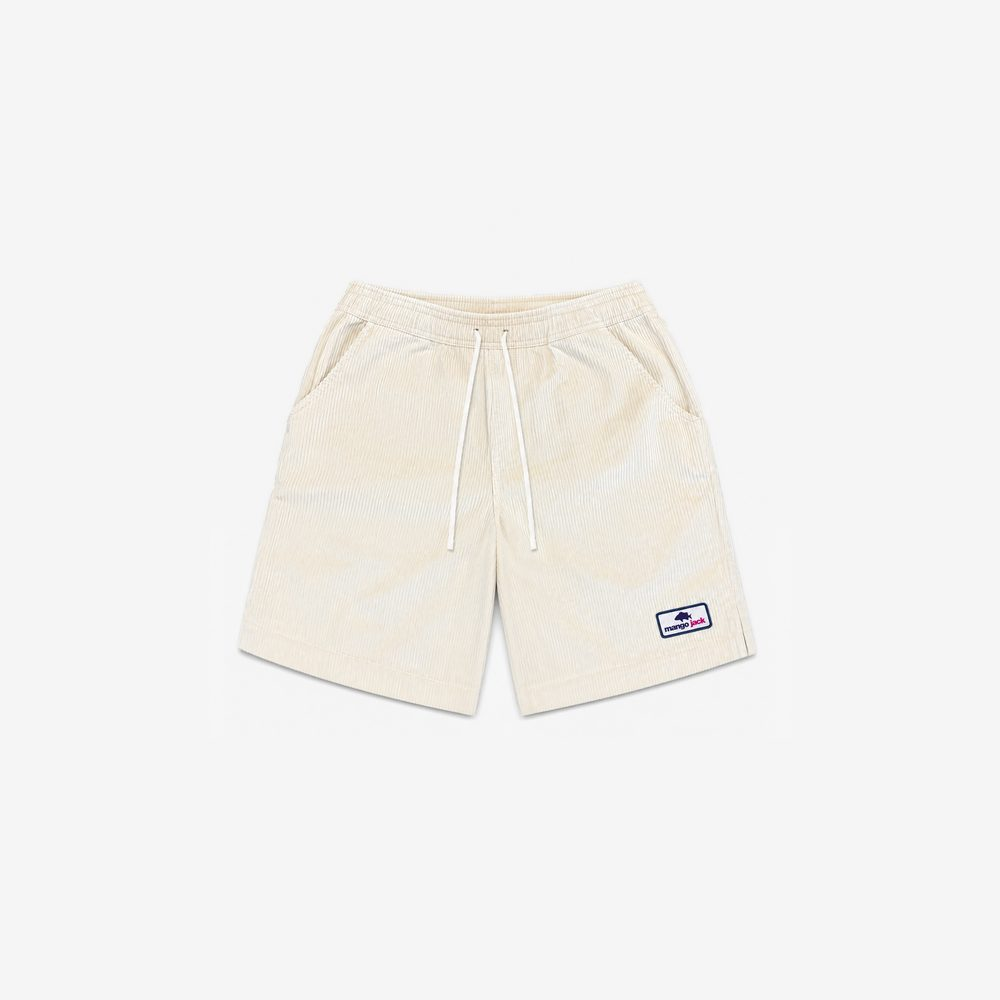
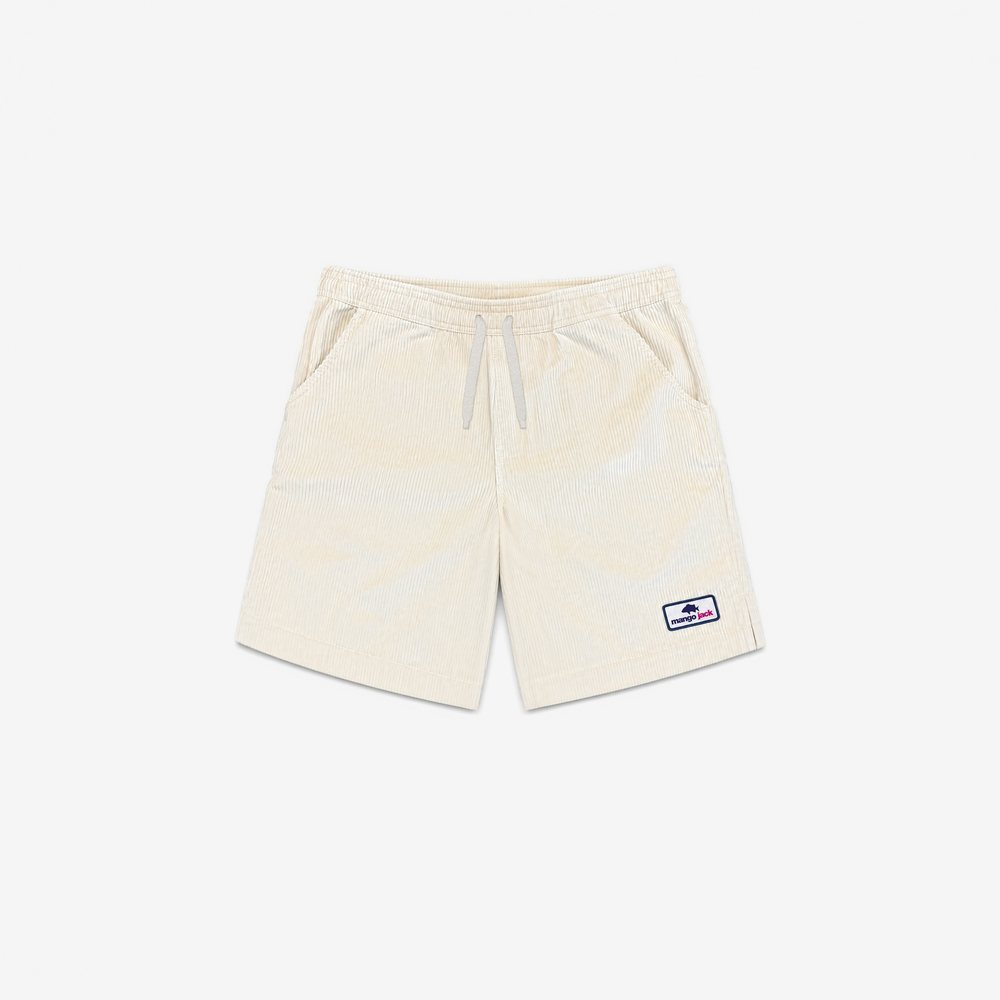
Update cord shorts and Mangrove Jack tee shots, remove ladies cord shorts
- Replace Broadwater Cord Short (beige, navy, salmon) front and back with the
  revised flatlays (longer leg, untied drawstring)
- Add the Mangrove Jack tee back shot (back was showing the front) and refresh the front
- Remove the three Ladies Broadwater Cord Short products and their images

Claude-Session: https://claude.ai/code/session_01Ryq84y8bG3T1CNt5CBMe1x

diff --git a/assets/site.js b/assets/site.js
@@ -66,7 +66,7 @@
         {
           "name": "White",
           "front": "assets/products/mangrove-jack-tee-white-front.jpg",
-          "back": "assets/products/mangrove-jack-tee-white-front.jpg"
+          "back": "assets/products/mangrove-jack-tee-white-back.jpg"
         }
       ],
       "fabric": "Reg Fit Tee, 100% cotton 195gsm"
@@ -165,111 +165,6 @@
       "fit": "Men's"
     },
     {
-      "id": "ladies-broadwater-cord-short-beige",
-      "name": "Ladies Broadwater Cord Short",
-      "cat": "shorts",
-      "fit": "Ladies",
-      "colours": [
-        {
-          "name": "Beige",
-          "front": "assets/products/ladies-broadwater-cord-short-beige-front.jpg",
-          "back": "assets/products/ladies-broadwater-cord-short-beige-back.jpg"
-        }
-      ],
-      "sizes": [
-        "6",
-        "8",
-        "10",
-        "12",
-        "14",
-        "16"
-      ],
-      "price": 79.99,
-      "stock": {
-        "Beige": {
-          "6": false,
-          "8": true,
-          "10": true,
-          "12": true,
-          "14": true,
-          "16": true
-        }
-      },
-      "group": "ladies-broadwater-cord-short",
-      "desc": "Our Broadwater Cord short is the ultimate in coastal comfort and effortless style. It blends undeniable class with a relaxed beach vibe.",
-      "fabric": "Corduroy Shorts, 100% cotton 340-350gsm"
-    },
-    {
-      "id": "ladies-broadwater-cord-short-navy",
-      "name": "Ladies Broadwater Cord Short",
-      "cat": "shorts",
-      "fit": "Ladies",
-      "colours": [
-        {
-          "name": "Navy",
-          "front": "assets/products/ladies-broadwater-cord-short-navy-front.jpg",
-          "back": "assets/products/ladies-broadwater-cord-short-navy-back.jpg"
-        }
-      ],
-      "sizes": [
-        "6",
-        "8",
-        "10",
-        "12",
-        "14",
-        "16"
-      ],
-      "price": 79.99,
-      "stock": {
-        "Navy": {
-          "6": false,
-          "8": true,
-          "10": false,
-          "12": true,
-          "14": true,
-          "16": false
-        }
-      },
-      "group": "ladies-broadwater-cord-short",
-      "desc": "Our Broadwater Cord short is the ultimate in coastal comfort and effortless style. It blends undeniable class with a relaxed beach vibe.",
-      "fabric": "Corduroy Shorts, 100% cotton 340-350gsm"
-    },
-    {
-      "id": "ladies-broadwater-cord-short-salmon",
-      "name": "Ladies Broadwater Cord Short",
-      "cat": "shorts",
-      "fit": "Ladies",
-      "colours": [
-        {
-          "name": "Salmon",
-          "front": "assets/products/ladies-broadwater-cord-short-salmon-front.jpg",
-          "back": "assets/products/ladies-broadwater-cord-short-salmon-back.jpg"
-        }
-      ],
-      "sizes": [
-        "6",
-        "8",
-        "10",
-        "12",
-        "14",
-        "16"
-      ],
-      "price": 79.99,
-      "stock": {
-        "Salmon": {
-          "6": false,
-          "8": true,
-          "10": true,
-          "12": true,
-          "14": true,
-          "16": true
-        }
-      },
-      "group": "ladies-broadwater-cord-short",
-      "desc": "Our Broadwater Cord short is the ultimate in coastal comfort and effortless style. It blends undeniable class with a relaxed beach vibe.",
-      "fabric": "Corduroy Shorts, 100% cotton 340-350gsm"
-    },
-    {
       "id": "dad-cap-beige",
       "name": "Dad Cap",
       "cat": "headwear",
@@ -339,7 +234,7 @@
     { img: 'assets/looks/beige-cord-detail-riverbank.jpg', items: [['broadwater-cord-short-beige', 'Beige']] },
     { img: 'assets/looks/marlin-navy-beige-cord-riverbank.jpg', items: [['broadwater-cord-short-beige', 'Beige']] },
     { img: 'assets/looks/offshore-beige-cord.jpg', items: [['broadwater-cord-short-beige', 'Beige']] },
-    { img: 'assets/looks/ladies-mangrove-beige-cord.jpg', items: [['mangrove-jack-tee', 'White'], ['ladies-broadwater-cord-short-beige', 'Beige']] },
+    { img: 'assets/looks/ladies-mangrove-beige-cord.jpg', items: [['mangrove-jack-tee', 'White']] },
     { img: 'assets/looks/bar-grill-navy-cord.jpg', items: [['broadwater-cord-short-navy', 'Navy']] },
     { img: 'assets/looks/navy-cord-detail-riverbank.jpg', items: [['broadwater-cord-short-navy', 'Navy']] },
     { img: 'assets/looks/marlin-front-navy-cord.jpg', items: [['broadwater-cord-short-navy', 'Navy']] },
